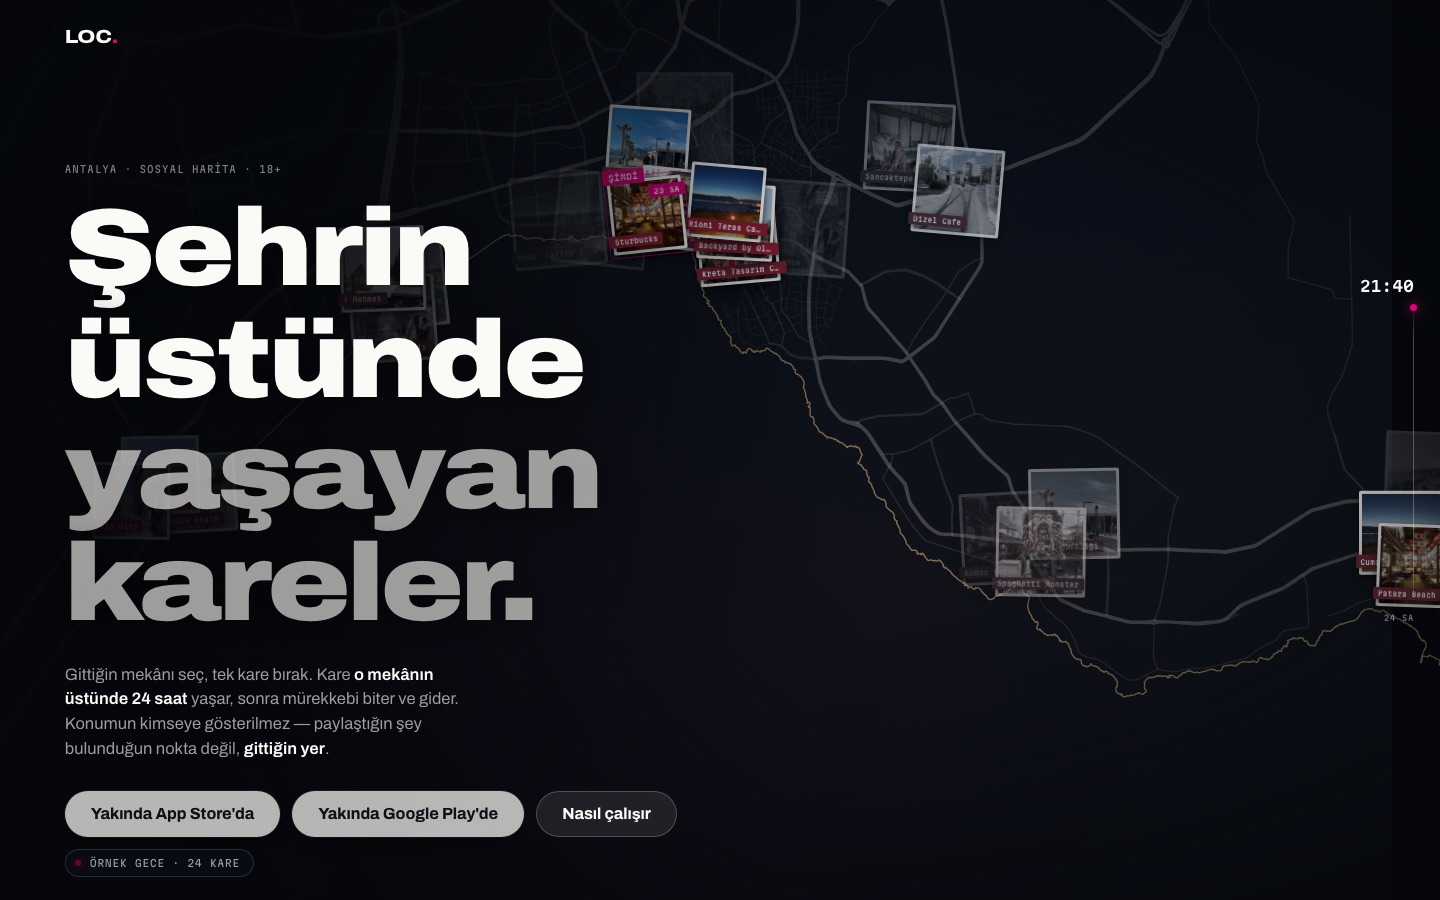
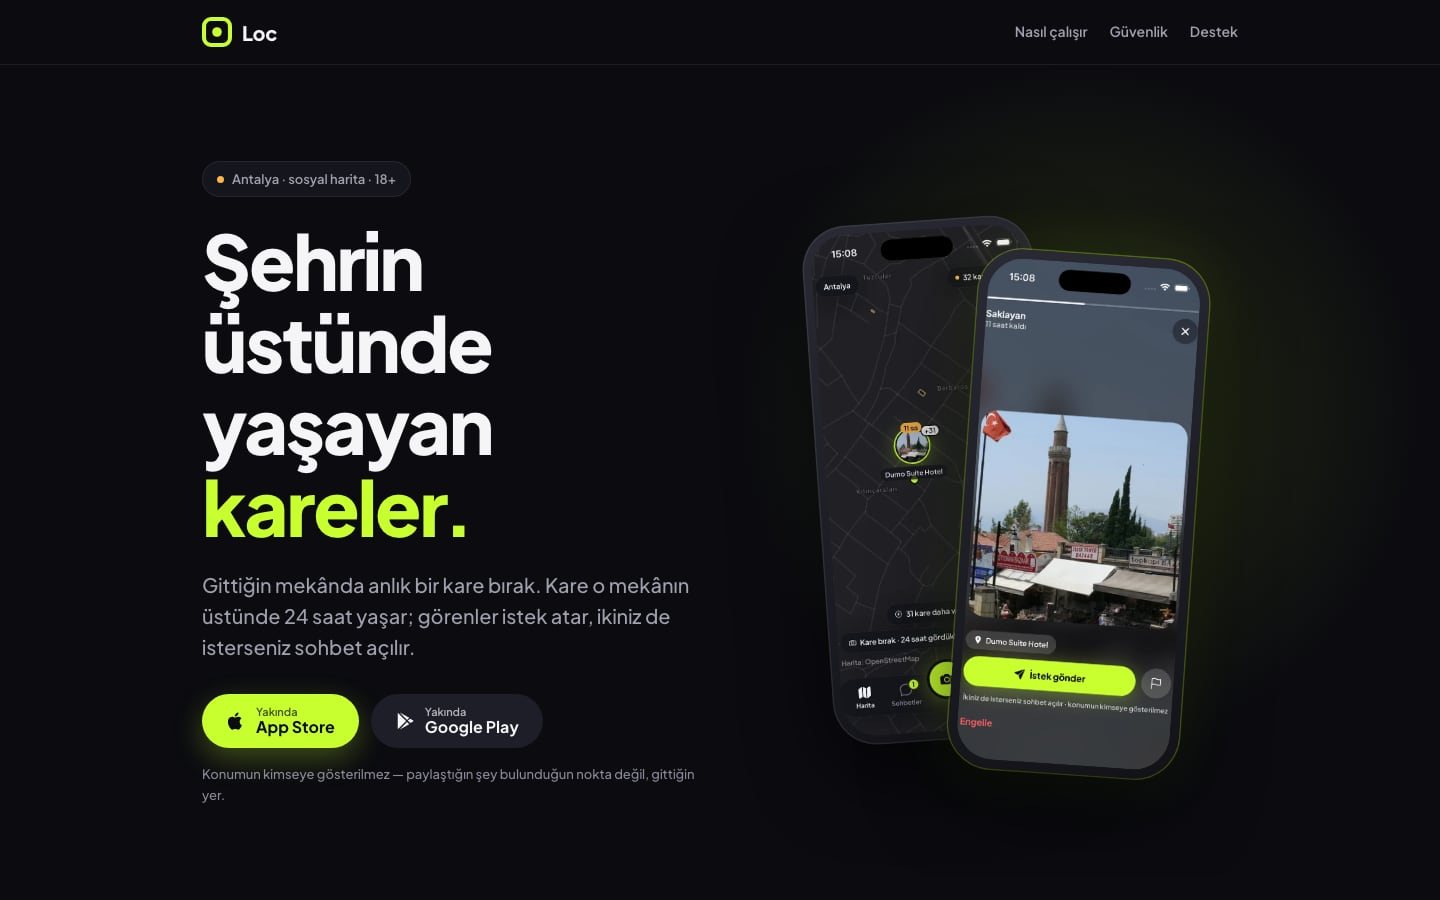
chore: Loc showcase refreshed for new Volt design (screenshots + accent)

diff --git a/components/home/projects.ts b/components/home/projects.ts
@@ -50,8 +50,8 @@ export const showcaseProjects: ShowcaseProject[] = [
     domain: "loc.vexloft.com",
     desktop: "/showcase/loc-desktop.jpg",
     mobile: "/showcase/loc-mobile.jpg",
-    accent: "#ff4fa8",
-    glow: "rgba(224, 0, 122, 0.38)",
+    accent: "#c8ff2e",
+    glow: "rgba(200, 255, 46, 0.32)",
   },
   {
     id: "astra",
